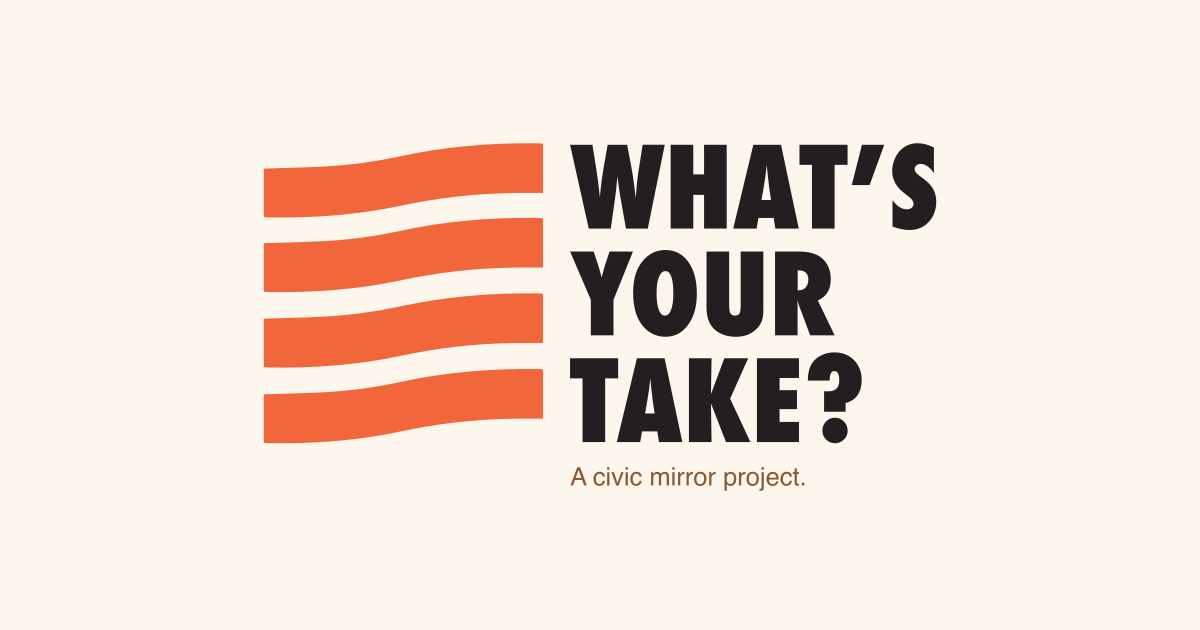
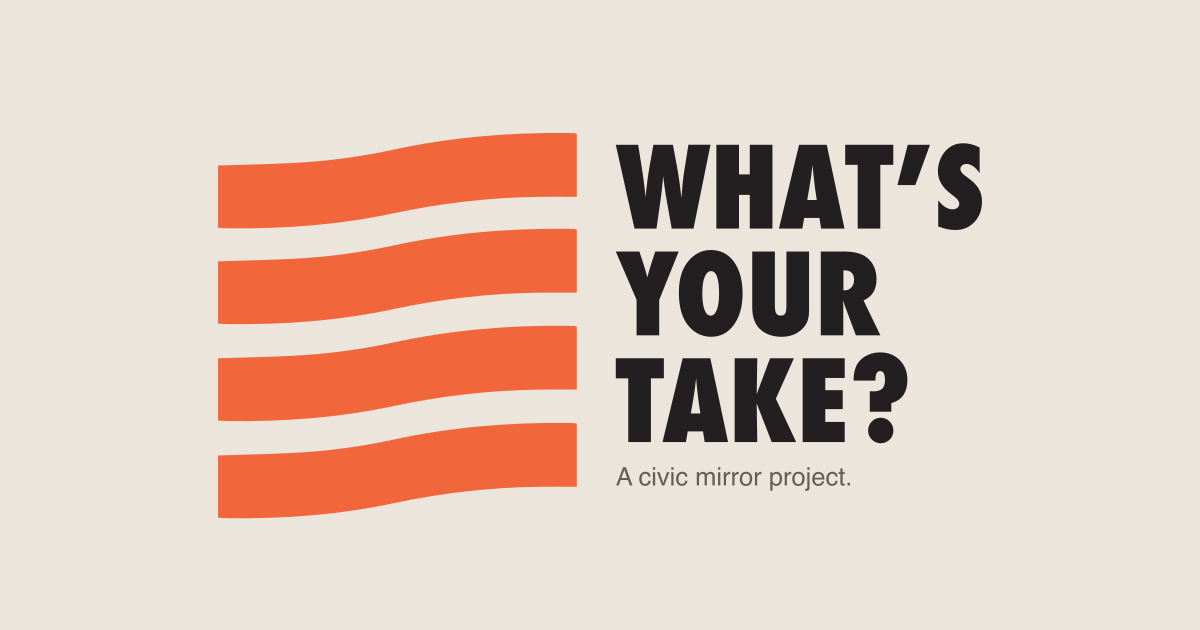
[2026-11-03] Match the palette to the poster; stripe hero CTA; one regular button
- tokens: paper, ink, and one orange from the printed poster; gold retired, accent is the brand orange; primary is the same hue darkened (OKLCH 37.8°) so it still passes AA as text; --accent-hover is the brand orange lifted and hotter (hue 37.8° → 46°, chroma held) so hovers go lighter without going pastel
- homepage hero CTA is a WrTP stripe bar in brand orange over an ink stripe shadow, turned 6.79° so the band sits level under the label; stripeButton and StripeBackdrop live in visual-grammar
- the default Button is brand orange with ink text (5.2:1) and hovers to --accent-hover; the newsletter, "Point us there", and "Submit your response" all use it, and bring-the-table drops its offset shadow
- "Next stop" banner and reveal-date highlights (home, event page) pair brand orange with ink text, so inherited grey text never lands on orange
- submission card: WytLockupLine replaces the text title; the textarea's hardcoded border moves to the --input token; the submit button is the regular Button, 40px tall where it was 52px
- photos on home and About get a display-side grade (.photo-grade, .hero-photo) to sit on the new paper
- share image reads its colors from app.css instead of repeating them, regenerated; theme-color and manifest follow the new paper
[…]

Changed region(s): [[0.1542, 0.2111, 0.8325, 0.8444]]

diff --git a/app/app.css b/app/app.css
@@ -16,42 +16,47 @@
 :root {
   color-scheme: light;
 
-  /* Design tokens from the Claude Design handoff (docs/ design-handoff
-     package), assigned to shadcn/BaseUI's semantic variable names so
-     generated components pick these up with zero overrides. Brand
-     name/hex noted alongside for anyone reading this without shadcn
-     context; the @theme inline block below maps these into Tailwind's
-     --color-* utility namespace. */
-  --background: #fdf6ec; /* paper */
-  --foreground: #3c2a1a; /* ink */
-  --card: #fffdf8; /* cream-white — stat card / highlighted ledger row */
-  --card-foreground: #3c2a1a;
-  --popover: #fffdf8;
-  --popover-foreground: #3c2a1a;
-  --primary: #c56a3d; /* terracotta */
-  --primary-foreground: #fdf6ec;
-  --secondary: #f7e9d2; /* paper-alt — newsletter band surface */
-  --secondary-foreground: #3c2a1a;
-  --muted: #f7e9d2;
-  --muted-foreground: #6b5138; /* muted-brown */
-  --accent: #f0b653; /* gold */
-  --accent-foreground: #3c2a1a;
+  /* Palette matched to the printed poster (2026-10-14): one paper, one ink,
+     one orange, no gold. Tokens keep shadcn/BaseUI's semantic names so
+     generated components pick them up with zero overrides; the @theme
+     inline block below maps them into Tailwind's --color-* namespace.
+
+     Every text pairing below meets WCAG AA (4.5:1) on paper, card, and the
+     muted band. The brand orange itself is only 2.3:1 as text on paper, so
+     it is a fill and accent only (stripes, underlines, highlights, always
+     under ink text); --primary is the same hue (OKLCH 37.8°) darkened until
+     it passes as text and carries card-colored text as a button fill. */
+  --background: #ece5dc; /* paper — sampled from the poster export */
+  --foreground: #231f20; /* ink — the wordmark's fill in the Illustrator source */
+  --card: #f7f4ef; /* lifted paper — stat card, form card (the poster's QR card) */
+  --card-foreground: #231f20;
+  --popover: #f7f4ef;
+  --popover-foreground: #231f20;
+  --primary: #b03400; /* deep brand orange — buttons, links, labels */
+  --primary-foreground: #f7f4ef;
+  --secondary: #e2dacf; /* paper-alt — newsletter band surface */
+  --secondary-foreground: #231f20;
+  --muted: #e2dacf;
+  --muted-foreground: #60554b; /* warm grey, the poster tagline's hue */
+  --accent: var(--wrtp-brand-orange); /* underlines, offset shadows, highlights */
+  --accent-foreground: #231f20;
+  --accent-hover: #ff7d36; /* brand orange lifted and hotter (OKLCH L +0.05, hue 37.8° → 46°, chroma held) — hover goes lighter without going pastel; ink on it is 6.4:1 */
   --destructive: oklch(0.577 0.245 27.325); /* not brand-specified; shadcn default red */
-  --border: #b59573; /* hairline-tan */
-  --input: #b59573;
-  --ring: #c56a3d;
+  --border: #968d86; /* hairline */
+  --input: #968d86;
+  --ring: #b03400;
   --radius: 0.5rem;
 
   /* Outside shadcn's default token set. */
-  --footer: #3c2a1a; /* ink used as an inverted surface (footer band) */
-  --footer-foreground: #fdf6ec;
-  --dashed: #d8c4a4; /* section-divider rule, distinct from --border */
-  --muted-tan: #8a5a34; /* eyebrow labels, homepage tagline */
-  --black: #231f20; /* true near-black neutral, alongside warm --foreground */
+  --footer: #231f20; /* ink used as an inverted surface (footer band) */
+  --footer-foreground: #ece5dc;
+  --dashed: #bdb7b2; /* section-divider rule, distinct from --border */
+  --muted-tan: #6a5e53; /* eyebrow labels, homepage tagline */
+  --black: #231f20; /* wordmark ink; same as --foreground since the poster match */
   /* Submission-flow-only backdrop — the rounded card floating on top of it
-     uses --background directly (per the design handoff, the card is the
-     usual paper color; only the surrounding page is this deeper tan). */
-  --submission-backdrop: #f3e4cf;
+     uses --background directly; only the surrounding page is this deeper
+     step of paper. */
+  --submission-backdrop: #ddd4c8;
 
   --wrtp-brand-orange: #f1673b;
 }
@@ -75,6 +80,7 @@
   --color-muted-foreground: var(--muted-foreground);
   --color-accent: var(--accent);
   --color-accent-foreground: var(--accent-foreground);
+  --color-accent-hover: var(--accent-hover);
   --color-destructive: var(--destructive);
   --color-border: var(--border);
   --color-input: var(--input);
@@ -469,6 +475,14 @@ body {
    because shadcn-generated components reference dark: utility variants
    syntactically — without a .dark class ever applied, they're simply
    inert. */
+
+/* Hero photo grade: the source has a yellow-green cast and low contrast, which
+   reads creamy against the pinkish paper. Nudge hue toward red, pull saturation
+   slightly, deepen the tones. Display-side, so the asset stays untouched. */
+.hero-photo img,
+.photo-grade img {
+  filter: hue-rotate(-10deg) saturate(0.85) contrast(1.2) brightness(0.95);
+}
 
 /* Homepage scroll motion: the hero photo settles from a slight zoom.
    Scroll-driven, so there's no JS and nothing to time; gated on support

diff --git a/app/routes/home.tsx b/app/routes/home.tsx
@@ -15,7 +15,8 @@ import {
   LiveStateNote,
   PhotoFrame,
   ledgerStatusMeta,
-  offsetShadow,
+  StripeBackdrop,
+  stripeButton,
 } from "~/components/visual-grammar";
 import { formatCityState } from "~/features/events/location";
 import { formatRevealDate, revealAnnouncement } from "~/features/events/reveal-date";
@@ -107,7 +108,6 @@ function PromptHeadline({ text }: { text: string }) {
 // gold underline scaled to the type (em, not the fixed 8px of body headlines).
 const headlineClass =
   "mx-auto max-w-5xl font-serif text-5xl leading-[1.05] font-semibold tracking-tight text-balance sm:text-7xl lg:text-8xl";
-const heroCta = "h-12 px-6 text-base";
 // One scale below the hero and the reveal: for the sections that carry
 // content (steps, the tour table) rather than a statement of their own.
 const sectionHeadlineClass =
@@ -144,7 +144,7 @@ export default function Home({ loaderData, actionData }: Route.ComponentProps) {
   return (
     <div className="flex min-h-screen flex-col font-sans text-foreground">
       {nextStop ? (
-        <div className="bg-primary px-4 py-2 text-center text-[13px] font-bold text-primary-foreground">
+        <div className="bg-accent px-4 py-2 text-center text-[13px] font-bold text-accent-foreground">
           Next stop: {nextStop.name}, {formatCityState(nextStop.city, nextStop.state)} ·{" "}
           {nextStop.dateLabel}
         </div>
@@ -178,7 +178,9 @@ export default function Home({ loaderData, actionData }: Route.ComponentProps) {
                 We&rsquo;re taking one question around the country, to festivals and markets, and
                 asking everyone who stops by. Every answer is anonymous, and sealed until{" "}
                 {revealDateLabel ? (
-                  <span className="bg-accent px-0.5 font-semibold">{revealDateLabel}</span>
+                  <span className="bg-accent px-0.5 font-semibold text-accent-foreground">
+                    {revealDateLabel}
+                  </span>
                 ) : (
                   "the whole record opens"
                 )}
@@ -187,13 +189,10 @@ export default function Home({ loaderData, actionData }: Route.ComponentProps) {
             )}
           </p>
           <div className="mt-8 flex flex-wrap items-center justify-center gap-x-6 gap-y-4">
-            <Button
-              render={<Link to="/find-the-table" />}
-              nativeButton={false}
-              className={`${offsetShadow} ${heroCta}`}
-            >
+            <Link to="/find-the-table" className={stripeButton}>
+              <StripeBackdrop />
               Where the table goes next
-            </Button>
+            </Link>
             <a href="#how-it-works" className="text-base underline underline-offset-4">
               How the table works
             </a>
@@ -321,7 +320,7 @@ export default function Home({ loaderData, actionData }: Route.ComponentProps) {
               alt="Two people sit side by side at the table, bent over their cards with pencils, with rubber stamps, markers and a cup of pencils laid out beside them."
               width={1200}
               height={1169}
-              className="aspect-square"
+              className="photo-grade aspect-square"
             />
           </div>
         </section>

diff --git a/app/components/visual-grammar.tsx b/app/components/visual-grammar.tsx
@@ -8,6 +8,53 @@ import { cn } from "~/lib/utils";
 // Offset hard shadow for primary CTAs — not a soft/blurred shadow.
 export const offsetShadow = "shadow-[4px_4px_0_var(--color-accent)]";
 
+// One bar of the WrTP stripes (the top bar of WrtpIcon) as a button
+// silhouette: the same offset-shadow idea as above, but the shadow and the
+// fill both take the bar's wave. In the logo the bar climbs toward the right
+// (a least-squares slope of about -0.12), which made a label set over it
+// look tilted, so here it is turned 6.79° clockwise about its center until
+// its centerline is level. The wave stays; the climb goes. The viewBox is
+// the turned bar's bounds (5:1), and the bar stretches to the button's box
+// (preserveAspectRatio="none"); stretching keeps a level line level, so the
+// band stays level at any button width.
+const STRIPE_BAR_PATH =
+  "M0,17.61c13.92-.46,27.52-.7,41-1.4,19-.98,37.11-3.54,54.31-7.27C124.86,2.53,156.05-.33,188.8.03c1.15.01,2.31.03,3.46.08.42.02.81.16,1.65.33v34.08c-7.23,0-14.11-.09-20.98.02-27.5.41-53.39,3.6-78.16,8.89-28.55,6.1-58.81,8.6-90.38,8.07-1.34-.02-2.67-.14-4.38-.23V17.61Z";
+
+function StripeBar({ className }: { className?: string }) {
+  return (
+    <svg
+      viewBox="-2.32 6.2 198.54 39.72"
+      preserveAspectRatio="none"
+      aria-hidden="true"
+      className={cn("pointer-events-none absolute inset-0 size-full overflow-visible", className)}
+    >
+      <path d={STRIPE_BAR_PATH} transform="rotate(6.79 96.955 25.785)" />
+    </svg>
+  );
+}
+
+// Classes for the element that hosts StripeBackdrop: a link or button with
+// no box of its own, so only the stripe shows. The turned bar fills about
+// 86% of its box's height, so the 56px box gives a band about as thick as
+// a standard 48px button, and a hero-length label keeps the box near the
+// bar's own 5:1. The focus outline stays a plain rectangle, offset clear of
+// the shape.
+export const stripeButton =
+  "group relative isolate inline-flex h-14 items-center justify-center px-10 text-base font-bold text-accent-foreground outline-offset-4 focus-visible:outline-2 focus-visible:outline-ring";
+
+// Brand-orange stripe over an ink stripe shadow, the poster's pairing. The
+// label is ink: light text measures only 2.6:1 on the brand orange, while
+// ink passes at 5.2:1. Place it as the first child of a `stripeButton`
+// element; the label follows it as ordinary text.
+export function StripeBackdrop() {
+  return (
+    <>
+      <StripeBar className="-z-10 translate-x-1 translate-y-1 fill-foreground" />
+      <StripeBar className="-z-10 fill-accent transition-colors group-hover:fill-accent-hover" />
+    </>
+  );
+}
+
 // Gold inset-underline highlight for key phrases in headlines: a low-sitting
 // bar so text floats on top, not a background highlight.
 export function GoldUnderline({ className, ...props }: ComponentProps<"span">) {

diff --git a/app/routes/e.$slug.tsx b/app/routes/e.$slug.tsx
@@ -11,8 +11,10 @@ import type { Route } from "./+types/e.$slug";
 import { db } from "~/db/client.server";
 import { events, prompts } from "~/db/schema.server";
 import { eq } from "drizzle-orm";
+import { Button } from "~/components/ui/button";
 import { DashedDivider, GoldUnderline } from "~/components/visual-grammar";
 import { formatCityState } from "~/features/events/location";
+import { WytLockupLine } from "~/components/wordmark";
 import { revealAnnouncement, type RevealDate } from "~/features/events/reveal-date";
 import { claimCodeQr } from "~/submissions/qr.server";
 import { MAX_BODY_LENGTH } from "~/submissions/constants";
@@ -208,17 +210,12 @@ function EventFooter({
   );
 }
 
-// Same wordmark + tagline pairing as SiteHeader, echoed at the top of every
-// screen in this flow so the submission card reads as the same site, not a
-// separately-branded kiosk app. Always left-aligned, even on the screens
-// below that center everything else.
+// Same lockup as SiteHeader, echoed at the top of every screen in this flow
+// so the submission card reads as the same site (and the same poster that
+// sent the participant here), not a separately-branded kiosk app. Always
+// left-aligned, even on the screens below that center everything else.
 function BrandMark() {
-  return (
-    <div className="mb-4 flex items-baseline gap-2 self-start">
-      <span className="text-[17px] font-bold">What&rsquo;s Your Take?</span>
-      <span className="text-[12.5px] text-muted-tan">A civic mirror project</span>
-    </div>
-  );
+  return <WytLockupLine className="mb-4 self-start [--mark-h:20px]" />;
 }
 
 export default function EventSubmit({ loaderData, actionData }: Route.ComponentProps) {
@@ -395,7 +392,7 @@ function ComposeForm({
           maxLength={MAX_BODY_LENGTH}
           rows={kiosk ? 8 : 6}
           placeholder="Say it plainly."
-          className="w-full rounded-2xl border-2 border-[#e6cfa8] p-4 text-base outline-none focus:border-primary"
+          className="w-full rounded-2xl border-2 border-input p-4 text-base outline-none focus:border-primary"
         />
         {error ? (
           <p className="banner banner-error" role="alert">
@@ -406,12 +403,9 @@ function ComposeForm({
           Responses are anonymous, and any names will be redacted. By submitting, you give We (ARE)
           the People permission to share, display, and publish your response in any medium.
         </p>
-        <button
-          type="submit"
-          className="min-h-[52px] w-full rounded-full bg-primary text-[15px] font-bold text-primary-foreground transition-colors hover:bg-[#a8552e]"
-        >
+        <Button type="submit" className="h-10 w-full">
           Submit your response
-        </button>
+        </Button>
       </Form>
 
       <EventFooter eventName={eventName} venue={venue} city={city} state={state} />

diff --git a/app/routes/bring-the-table.tsx b/app/routes/bring-the-table.tsx
@@ -14,7 +14,7 @@ import {
 import { Textarea } from "~/components/ui/textarea";
 import { db } from "~/db/client.server";
 import { SiteFooter, SiteHeader } from "~/components/site-chrome";
-import { GoldUnderline, offsetShadow } from "~/components/visual-grammar";
+import { GoldUnderline } from "~/components/visual-grammar";
 import { checkRateLimit, getClientIp } from "~/features/table-requests/services/rate-limit.server";
 import {
   resolveArea,
@@ -208,7 +208,7 @@ export default function BringTheTable({ actionData }: Route.ComponentProps) {
                 </p>
               ) : null}
 
-              <Button type="submit" className={`w-fit ${offsetShadow}`} disabled={!selectedArea}>
+              <Button type="submit" className="h-10 w-fit px-4" disabled={!selectedArea}>
                 Point us there
               </Button>
             </Form>

diff --git a/app/root.tsx b/app/root.tsx
@@ -18,7 +18,7 @@ export function Layout({ children }: { children: React.ReactNode }) {
         <link rel="icon" href="/favicon.ico" />
         <link rel="apple-touch-icon" href="/apple-touch-icon.png" />
         <link rel="manifest" href="/manifest.json" />
-        <meta name="theme-color" content="#fdf6ec" />
+        <meta name="theme-color" content="#ece5dc" />
         {/* Share card: the poster lockup, generated by other/og-image.mjs.
             Title and description come from each route's meta(). */}
         <meta property="og:type" content="website" />

diff --git a/app/components/ui/button.tsx b/app/components/ui/button.tsx
@@ -8,7 +8,7 @@ const buttonVariants = cva(
   {
     variants: {
       variant: {
-        default: "bg-primary text-primary-foreground hover:bg-primary/80",
+        default: "bg-accent text-accent-foreground hover:bg-accent-hover",
         outline:
           "border-border bg-background hover:bg-muted hover:text-foreground aria-expanded:bg-muted aria-expanded:text-foreground dark:border-input dark:bg-input/30 dark:hover:bg-input/50",
         secondary:

diff --git a/app/routes/events.$publicSlug.tsx b/app/routes/events.$publicSlug.tsx
@@ -43,7 +43,9 @@ function RevealClause({ announcement }: { announcement: RevealAnnouncement | nul
   return announcement ? (
     <>
       , {announcement.preposition}{" "}
-      <span className="bg-accent px-0.5 font-semibold">{announcement.label}</span>
+      <span className="bg-accent px-0.5 font-semibold text-accent-foreground">
+        {announcement.label}
+      </span>
     </>
   ) : (
     ", on a date to be announced"

diff --git a/app/routes/about.tsx b/app/routes/about.tsx
@@ -47,7 +47,7 @@ export default function About() {
             width={900}
             height={1351}
             loading="eager"
-            className="aspect-[3/4] sm:relative sm:aspect-auto"
+            className="photo-grade aspect-[3/4] sm:relative sm:aspect-auto"
             imgClassName="sm:absolute sm:inset-0"
           />
         </section>
